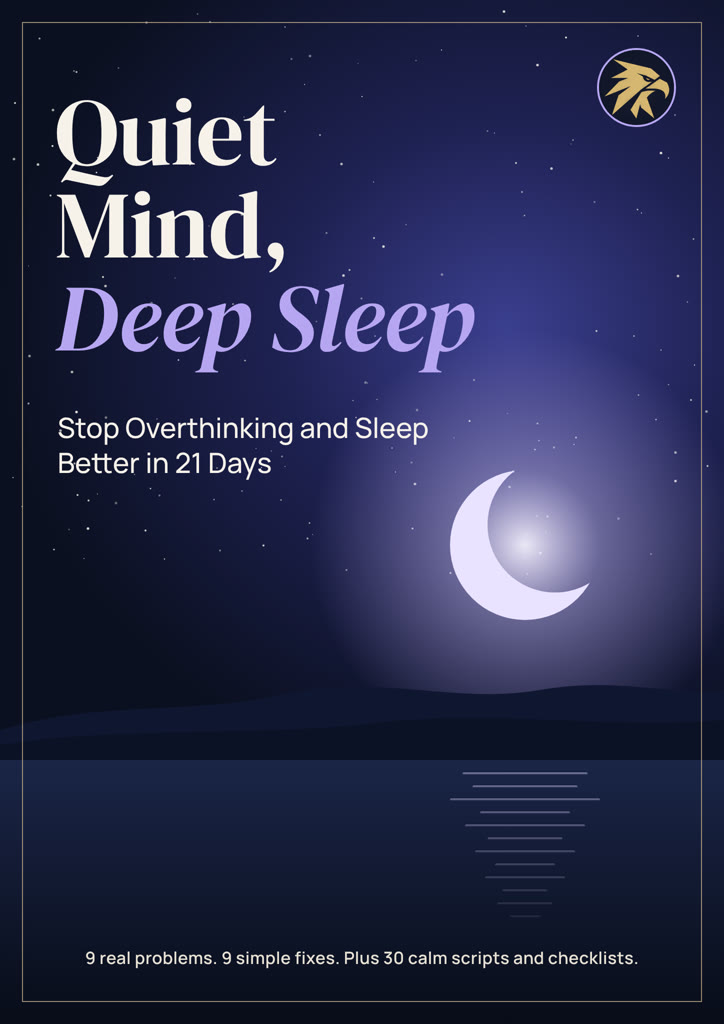
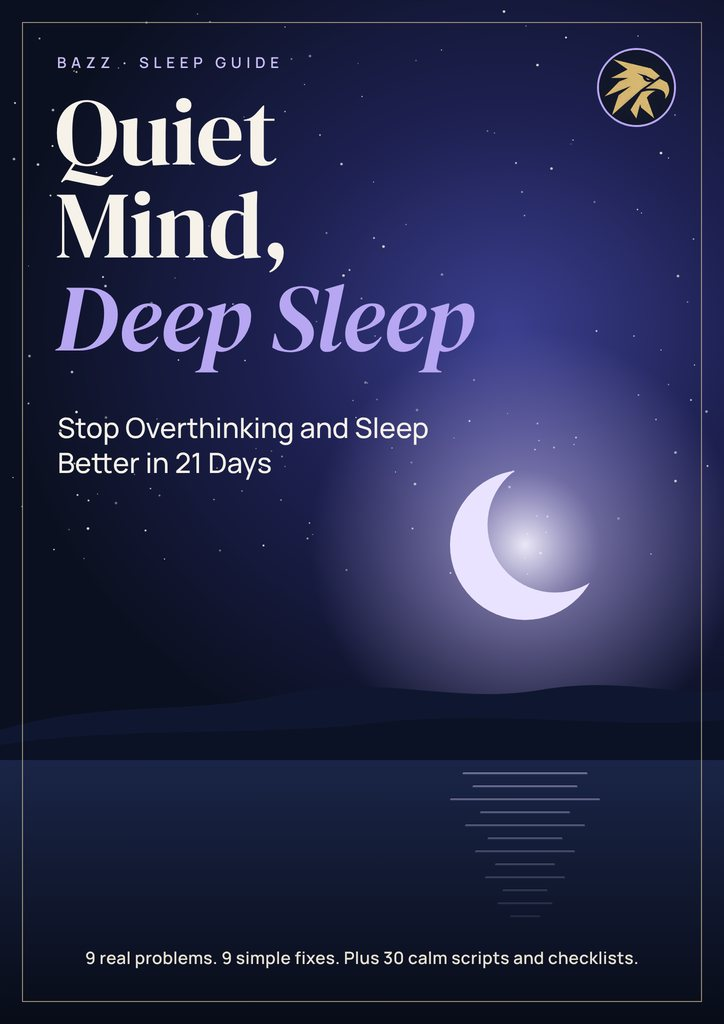
Covers: BAZZ guide label on every book

Changed region(s): [[0.8508, 0.0625, 0.9116, 0.125]]

diff --git a/index.html b/index.html
@@ -100,23 +100,23 @@
     <div class="books3d" id="books3d" aria-hidden="true"></div>
     <div class="wall">
       <a aria-label="AI for Beginners, $99.99" class="bk niche" href="product.html" style="--c:#14B8C9">
-        <span class="nic"><span class="lamp" aria-hidden="true"></span><span class="wash" aria-hidden="true"></span><img src="assets/cover.jpg" alt="AI for Beginners cover" loading="lazy" width="724" height="1024"><span class="glint" aria-hidden="true"></span><img class="refl" src="assets/cover.jpg" alt="" aria-hidden="true" loading="lazy" width="724" height="1024"></span>
+        <span class="nic"><span class="lamp" aria-hidden="true"></span><span class="wash" aria-hidden="true"></span><img src="assets/cover.jpg?v=3" alt="AI for Beginners cover" loading="lazy" width="724" height="1024"><span class="glint" aria-hidden="true"></span><img class="refl" src="assets/cover.jpg?v=3" alt="" aria-hidden="true" loading="lazy" width="724" height="1024"></span>
         <span class="nic-info"><span class="bk-tag">AI</span><b>AI for Beginners</b><span>Save hours every week with ChatGPT and Claude.</span><em>$99.99 &rarr;</em></span>
       </a>
       <a aria-label="Paycheck to Peace, $99.99" class="bk niche" href="money.html" style="--c:#D9A38B">
-        <span class="nic"><span class="lamp" aria-hidden="true"></span><span class="wash" aria-hidden="true"></span><img src="assets/cover-money.jpg" alt="Paycheck to Peace cover" loading="lazy" width="724" height="1024"><span class="glint" aria-hidden="true"></span><img class="refl" src="assets/cover-money.jpg" alt="" aria-hidden="true" loading="lazy" width="724" height="1024"></span>
+        <span class="nic"><span class="lamp" aria-hidden="true"></span><span class="wash" aria-hidden="true"></span><img src="assets/cover-money.jpg?v=3" alt="Paycheck to Peace cover" loading="lazy" width="724" height="1024"><span class="glint" aria-hidden="true"></span><img class="refl" src="assets/cover-money.jpg?v=3" alt="" aria-hidden="true" loading="lazy" width="724" height="1024"></span>
         <span class="nic-info"><span class="bk-tag">Money</span><b>Paycheck to Peace</b><span>Stop living paycheck to paycheck in 90 days.</span><em>$99.99 &rarr;</em></span>
       </a>
       <a aria-label="Quiet Mind, Deep Sleep, $99.99" class="bk niche" href="calm.html" style="--c:#B7A6F2">
-        <span class="nic"><span class="lamp" aria-hidden="true"></span><span class="wash" aria-hidden="true"></span><img src="assets/cover-calm.jpg" alt="Quiet Mind, Deep Sleep cover" loading="lazy" width="724" height="1024"><span class="glint" aria-hidden="true"></span><img class="refl" src="assets/cover-calm.jpg" alt="" aria-hidden="true" loading="lazy" width="724" height="1024"></span>
+        <span class="nic"><span class="lamp" aria-hidden="true"></span><span class="wash" aria-hidden="true"></span><img src="assets/cover-calm.jpg?v=3" alt="Quiet Mind, Deep Sleep cover" loading="lazy" width="724" height="1024"><span class="glint" aria-hidden="true"></span><img class="refl" src="assets/cover-calm.jpg?v=3" alt="" aria-hidden="true" loading="lazy" width="724" height="1024"></span>
         <span class="nic-info"><span class="bk-tag">Sleep &amp; calm</span><b>Quiet Mind, Deep Sleep</b><span>Stop overthinking and sleep better in 21 days.</span><em>$99.99 &rarr;</em></span>
       </a>
       <a aria-label="Hired in 30 Days, $99.99" class="bk niche" href="career.html" style="--c:#C8A24A">
-        <span class="nic"><span class="lamp" aria-hidden="true"></span><span class="wash" aria-hidden="true"></span><img src="assets/cover-career.jpg" alt="Hired in 30 Days cover" loading="lazy" width="724" height="1024"><span class="glint" aria-hidden="true"></span><img class="refl" src="assets/cover-career.jpg" alt="" aria-hidden="true" loading="lazy" width="724" height="1024"></span>
+        <span class="nic"><span class="lamp" aria-hidden="true"></span><span class="wash" aria-hidden="true"></span><img src="assets/cover-career.jpg?v=3" alt="Hired in 30 Days cover" loading="lazy" width="724" height="1024"><span class="glint" aria-hidden="true"></span><img class="refl" src="assets/cover-career.jpg?v=3" alt="" aria-hidden="true" loading="lazy" width="724" height="1024"></span>
         <span class="nic-info"><span class="bk-tag">Career</span><b>Hired in 30 Days</b><span>Land a better job without applying everywhere.</span><em>$99.99 &rarr;</em></span>
       </a>
       <a aria-label="The 20-Minute Home Workout, $99.99" class="bk niche" href="fitness.html" style="--c:#FF6A2B">
-        <span class="nic"><span class="lamp" aria-hidden="true"></span><span class="wash" aria-hidden="true"></span><img src="assets/cover-fit.jpg" alt="The 20-Minute Home Workout cover" loading="lazy" width="724" height="1024"><span class="glint" aria-hidden="true"></span><img class="refl" src="assets/cover-fit.jpg" alt="" aria-hidden="true" loading="lazy" width="724" height="1024"></span>
+        <span class="nic"><span class="lamp" aria-hidden="true"></span><span class="wash" aria-hidden="true"></span><img src="assets/cover-fit.jpg?v=3" alt="The 20-Minute Home Workout cover" loading="lazy" width="724" height="1024"><span class="glint" aria-hidden="true"></span><img class="refl" src="assets/cover-fit.jpg?v=3" alt="" aria-hidden="true" loading="lazy" width="724" height="1024"></span>
         <span class="nic-info"><span class="bk-tag">Fitness</span><b>The 20-Minute Home Workout</b><span>Get fit at home without a gym.</span><em>$99.99 &rarr;</em></span>
       </a>
       <a aria-label="The Hair Rescue, $99.99" class="bk niche" href="hair.html" style="--c:#D9A441">
@@ -181,14 +181,14 @@
 <script type="module">
   import { mountLogo } from './assets/logo3d.js';
   mountLogo(document.getElementById('medal'));
-  import('./assets/books3d.js?v=5').then(({ mountBooks }) => {
+  import('./assets/books3d.js?v=6').then(({ mountBooks }) => {
     const sec = document.getElementById('books');
     const ok = mountBooks(document.getElementById('books3d'), [
-      { cover: 'assets/cover.jpg', title: 'AI for Beginners', color: '#0F1B2D', ink: '#14B8C9', url: 'product.html' },
-      { cover: 'assets/cover-money.jpg', title: 'Paycheck to Peace', color: '#6B1E3A', ink: '#E8B9A2', url: 'money.html' },
-      { cover: 'assets/cover-calm.jpg', title: 'Quiet Mind, Deep Sleep', color: '#1E2152', ink: '#B7A6F2', url: 'calm.html' },
-      { cover: 'assets/cover-career.jpg', title: 'Hired in 30 Days', color: '#12372A', ink: '#C8A24A', url: 'career.html' },
-      { cover: 'assets/cover-fit.jpg', title: '20-Minute Home Workout', color: '#1E1E20', ink: '#FF6A2B', url: 'fitness.html' },
+      { cover: 'assets/cover.jpg?v=3', title: 'AI for Beginners', color: '#0F1B2D', ink: '#14B8C9', url: 'product.html' },
+      { cover: 'assets/cover-money.jpg?v=3', title: 'Paycheck to Peace', color: '#6B1E3A', ink: '#E8B9A2', url: 'money.html' },
+      { cover: 'assets/cover-calm.jpg?v=3', title: 'Quiet Mind, Deep Sleep', color: '#1E2152', ink: '#B7A6F2', url: 'calm.html' },
+      { cover: 'assets/cover-career.jpg?v=3', title: 'Hired in 30 Days', color: '#12372A', ink: '#C8A24A', url: 'career.html' },
+      { cover: 'assets/cover-fit.jpg?v=3', title: '20-Minute Home Workout', color: '#1E1E20', ink: '#FF6A2B', url: 'fitness.html' },
       { cover: 'assets/cover-hair.jpg?v=2', title: 'The Hair Rescue', color: '#3A2418', ink: '#E7B95A', url: 'hair.html' },
       { cover: 'assets/cover-face.jpg?v=2', title: 'The Skin Reset', color: '#1F4F4A', ink: '#F6BBA2', url: 'face.html' },
     ], url => (window.bazzGo || (u => location.href = u))(url));

diff --git a/fitness.html b/fitness.html
@@ -11,9 +11,9 @@
 <meta property="og:url" content="https://bazzcoffee336-web.github.io/BAZZ-Coffee/fitness.html">
 <meta property="og:title" content="The 20-Minute Home Workout | Get Fit Without a Gym">
 <meta property="og:description" content="The 20-Minute Home Workout ebook: 9 real fitness problems, 9 simple fixes, plus 30 workout cards and checklists.">
-<meta property="og:image" content="https://bazzcoffee336-web.github.io/BAZZ-Coffee/assets/cover-fit.jpg">
+<meta property="og:image" content="https://bazzcoffee336-web.github.io/BAZZ-Coffee/assets/cover-fit.jpg?v=3">
 <meta name="twitter:card" content="summary_large_image">
-<script type="application/ld+json">{"@context": "https://schema.org", "@type": "Book", "name": "The 20-Minute Home Workout", "bookFormat": "https://schema.org/EBook", "inLanguage": "en", "image": "https://bazzcoffee336-web.github.io/BAZZ-Coffee/assets/cover-fit.jpg", "description": "The 20-Minute Home Workout ebook: 9 real fitness problems, 9 simple fixes, plus 30 workout cards and checklists.", "brand": {"@type": "Brand", "name": "BAZZ"}, "publisher": {"@type": "Organization", "name": "BAZZ"}, "offers": {"@type": "Offer", "price": "99.99", "priceCurrency": "USD", "availability": "https://schema.org/PreOrder", "url": "https://bazzcoffee336-web.github.io/BAZZ-Coffee/fitness.html"}}</script>
+<script type="application/ld+json">{"@context": "https://schema.org", "@type": "Book", "name": "The 20-Minute Home Workout", "bookFormat": "https://schema.org/EBook", "inLanguage": "en", "image": "https://bazzcoffee336-web.github.io/BAZZ-Coffee/assets/cover-fit.jpg?v=3", "description": "The 20-Minute Home Workout ebook: 9 real fitness problems, 9 simple fixes, plus 30 workout cards and checklists.", "brand": {"@type": "Brand", "name": "BAZZ"}, "publisher": {"@type": "Organization", "name": "BAZZ"}, "offers": {"@type": "Offer", "price": "99.99", "priceCurrency": "USD", "availability": "https://schema.org/PreOrder", "url": "https://bazzcoffee336-web.github.io/BAZZ-Coffee/fitness.html"}}</script>
 <link rel="icon" type="image/png" sizes="32x32" href="assets/medal-32.png?v=3"><link rel="icon" type="image/png" sizes="64x64" href="assets/medal-64.png?v=3"><link rel="apple-touch-icon" href="assets/medal-180.png?v=3">
 <link rel="preconnect" href="https://fonts.googleapis.com"><link rel="preconnect" href="https://fonts.gstatic.com" crossorigin>
 <link href="https://fonts.googleapis.com/css2?family=DM+Serif+Display:ital@0;1&family=JetBrains+Mono&family=Manrope:wght@400;600;700&display=swap" rel="stylesheet">
@@ -34,7 +34,7 @@
 <main id="main">
   <header class="hero">
     <div class="stage3d" id="stage" aria-label="3D ebook." role="button">
-      <div class="fallback"><img src="assets/cover-fit.jpg" alt="The 20-Minute Home Workout ebook cover"></div>
+      <div class="fallback"><img src="assets/cover-fit.jpg?v=3" alt="The 20-Minute Home Workout ebook cover"></div>
     </div>
     <div>
       <p class="kick">Ebook &middot; PDF</p>
@@ -146,7 +146,7 @@
 
 <script type="module">
   import { mountBook } from './assets/book3d.js';
-  mountBook(document.getElementById('stage'), { color: '#FF6A2B', bg: '#1E1E20', cover: 'assets/cover-fit.jpg', title: 'The 20-Minute Home Workout', back1: 'Get fit without a gym', back2: '20 minutes at a time' });
+  mountBook(document.getElementById('stage'), { color: '#FF6A2B', bg: '#1E1E20', cover: 'assets/cover-fit.jpg?v=3', title: 'The 20-Minute Home Workout', back1: 'Get fit without a gym', back2: '20 minutes at a time' });
 </script>
 <script src="assets/site.js?v=494499"></script>
 </body>

diff --git a/calm.html b/calm.html
@@ -11,9 +11,9 @@
 <meta property="og:url" content="https://bazzcoffee336-web.github.io/BAZZ-Coffee/calm.html">
 <meta property="og:title" content="Quiet Mind, Deep Sleep | Stop Overthinking and Sleep Better">
 <meta property="og:description" content="Quiet Mind, Deep Sleep ebook: 9 real problems, 9 simple fixes, plus 30 calm scripts and checklists.">
-<meta property="og:image" content="https://bazzcoffee336-web.github.io/BAZZ-Coffee/assets/cover-calm.jpg">
+<meta property="og:image" content="https://bazzcoffee336-web.github.io/BAZZ-Coffee/assets/cover-calm.jpg?v=3">
 <meta name="twitter:card" content="summary_large_image">
-<script type="application/ld+json">{"@context": "https://schema.org", "@type": "Book", "name": "Quiet Mind, Deep Sleep", "bookFormat": "https://schema.org/EBook", "inLanguage": "en", "image": "https://bazzcoffee336-web.github.io/BAZZ-Coffee/assets/cover-calm.jpg", "description": "Quiet Mind, Deep Sleep ebook: 9 real problems, 9 simple fixes, plus 30 calm scripts and checklists.", "brand": {"@type": "Brand", "name": "BAZZ"}, "publisher": {"@type": "Organization", "name": "BAZZ"}, "offers": {"@type": "Offer", "price": "99.99", "priceCurrency": "USD", "availability": "https://schema.org/PreOrder", "url": "https://bazzcoffee336-web.github.io/BAZZ-Coffee/calm.html"}}</script>
+<script type="application/ld+json">{"@context": "https://schema.org", "@type": "Book", "name": "Quiet Mind, Deep Sleep", "bookFormat": "https://schema.org/EBook", "inLanguage": "en", "image": "https://bazzcoffee336-web.github.io/BAZZ-Coffee/assets/cover-calm.jpg?v=3", "description": "Quiet Mind, Deep Sleep ebook: 9 real problems, 9 simple fixes, plus 30 calm scripts and checklists.", "brand": {"@type": "Brand", "name": "BAZZ"}, "publisher": {"@type": "Organization", "name": "BAZZ"}, "offers": {"@type": "Offer", "price": "99.99", "priceCurrency": "USD", "availability": "https://schema.org/PreOrder", "url": "https://bazzcoffee336-web.github.io/BAZZ-Coffee/calm.html"}}</script>
 <link rel="icon" type="image/png" sizes="32x32" href="assets/medal-32.png?v=3"><link rel="icon" type="image/png" sizes="64x64" href="assets/medal-64.png?v=3"><link rel="apple-touch-icon" href="assets/medal-180.png?v=3">
 <link rel="preconnect" href="https://fonts.googleapis.com"><link rel="preconnect" href="https://fonts.gstatic.com" crossorigin>
 <link href="https://fonts.googleapis.com/css2?family=DM+Serif+Display:ital@0;1&family=JetBrains+Mono&family=Manrope:wght@400;600;700&display=swap" rel="stylesheet">
@@ -34,7 +34,7 @@
 <main id="main">
   <header class="hero">
     <div class="stage3d" id="stage" aria-label="3D ebook." role="button">
-      <div class="fallback"><img src="assets/cover-calm.jpg" alt="Quiet Mind, Deep Sleep ebook cover"></div>
+      <div class="fallback"><img src="assets/cover-calm.jpg?v=3" alt="Quiet Mind, Deep Sleep ebook cover"></div>
     </div>
     <div>
       <p class="kick">Ebook &middot; PDF</p>
@@ -146,7 +146,7 @@
 
 <script type="module">
   import { mountBook } from './assets/book3d.js';
-  mountBook(document.getElementById('stage'), { color: '#B7A6F2', bg: '#1E2152', cover: 'assets/cover-calm.jpg', title: 'Quiet Mind, Deep Sleep', back1: 'Stop overthinking', back2: 'Sleep better in 21 days' });
+  mountBook(document.getElementById('stage'), { color: '#B7A6F2', bg: '#1E2152', cover: 'assets/cover-calm.jpg?v=3', title: 'Quiet Mind, Deep Sleep', back1: 'Stop overthinking', back2: 'Sleep better in 21 days' });
 </script>
 <script src="assets/site.js?v=494499"></script>
 </body>

diff --git a/career.html b/career.html
@@ -11,9 +11,9 @@
 <meta property="og:url" content="https://bazzcoffee336-web.github.io/BAZZ-Coffee/career.html">
 <meta property="og:title" content="Hired in 30 Days | Land a Better Job Without Applying Everywhere">
 <meta property="og:description" content="Hired in 30 Days ebook: 9 real job-search problems, 9 simple fixes, plus 30 scripts and templates.">
-<meta property="og:image" content="https://bazzcoffee336-web.github.io/BAZZ-Coffee/assets/cover-career.jpg">
+<meta property="og:image" content="https://bazzcoffee336-web.github.io/BAZZ-Coffee/assets/cover-career.jpg?v=3">
 <meta name="twitter:card" content="summary_large_image">
-<script type="application/ld+json">{"@context": "https://schema.org", "@type": "Book", "name": "Hired in 30 Days", "bookFormat": "https://schema.org/EBook", "inLanguage": "en", "image": "https://bazzcoffee336-web.github.io/BAZZ-Coffee/assets/cover-career.jpg", "description": "Hired in 30 Days ebook: 9 real job-search problems, 9 simple fixes, plus 30 scripts and templates.", "brand": {"@type": "Brand", "name": "BAZZ"}, "publisher": {"@type": "Organization", "name": "BAZZ"}, "offers": {"@type": "Offer", "price": "99.99", "priceCurrency": "USD", "availability": "https://schema.org/PreOrder", "url": "https://bazzcoffee336-web.github.io/BAZZ-Coffee/career.html"}}</script>
+<script type="application/ld+json">{"@context": "https://schema.org", "@type": "Book", "name": "Hired in 30 Days", "bookFormat": "https://schema.org/EBook", "inLanguage": "en", "image": "https://bazzcoffee336-web.github.io/BAZZ-Coffee/assets/cover-career.jpg?v=3", "description": "Hired in 30 Days ebook: 9 real job-search problems, 9 simple fixes, plus 30 scripts and templates.", "brand": {"@type": "Brand", "name": "BAZZ"}, "publisher": {"@type": "Organization", "name": "BAZZ"}, "offers": {"@type": "Offer", "price": "99.99", "priceCurrency": "USD", "availability": "https://schema.org/PreOrder", "url": "https://bazzcoffee336-web.github.io/BAZZ-Coffee/career.html"}}</script>
 <link rel="icon" type="image/png" sizes="32x32" href="assets/medal-32.png?v=3"><link rel="icon" type="image/png" sizes="64x64" href="assets/medal-64.png?v=3"><link rel="apple-touch-icon" href="assets/medal-180.png?v=3">
 <link rel="preconnect" href="https://fonts.googleapis.com"><link rel="preconnect" href="https://fonts.gstatic.com" crossorigin>
 <link href="https://fonts.googleapis.com/css2?family=DM+Serif+Display:ital@0;1&family=JetBrains+Mono&family=Manrope:wght@400;600;700&display=swap" rel="stylesheet">
@@ -34,7 +34,7 @@
 <main id="main">
   <header class="hero">
     <div class="stage3d" id="stage" aria-label="3D ebook." role="button">
-      <div class="fallback"><img src="assets/cover-career.jpg" alt="Hired in 30 Days ebook cover"></div>
+      <div class="fallback"><img src="assets/cover-career.jpg?v=3" alt="Hired in 30 Days ebook cover"></div>
     </div>
     <div>
       <p class="kick">Ebook &middot; PDF</p>
@@ -146,7 +146,7 @@
 
 <script type="module">
   import { mountBook } from './assets/book3d.js';
-  mountBook(document.getElementById('stage'), { color: '#C8A24A', bg: '#12372A', cover: 'assets/cover-career.jpg', title: 'Hired in 30 Days', back1: 'Land a better job', back2: 'without applying everywhere' });
+  mountBook(document.getElementById('stage'), { color: '#C8A24A', bg: '#12372A', cover: 'assets/cover-career.jpg?v=3', title: 'Hired in 30 Days', back1: 'Land a better job', back2: 'without applying everywhere' });
 </script>
 <script src="assets/site.js?v=494499"></script>
 </body>

diff --git a/money.html b/money.html
@@ -11,9 +11,9 @@
 <meta property="og:url" content="https://bazzcoffee336-web.github.io/BAZZ-Coffee/money.html">
 <meta property="og:title" content="Paycheck to Peace | Stop Living Paycheck to Paycheck">
 <meta property="og:description" content="Paycheck to Peace ebook: 9 money problems, 9 simple fixes, plus 30 scripts and checklists.">
-<meta property="og:image" content="https://bazzcoffee336-web.github.io/BAZZ-Coffee/assets/cover-money.jpg">
+<meta property="og:image" content="https://bazzcoffee336-web.github.io/BAZZ-Coffee/assets/cover-money.jpg?v=3">
 <meta name="twitter:card" content="summary_large_image">
-<script type="application/ld+json">{"@context": "https://schema.org", "@type": "Book", "name": "Paycheck to Peace", "bookFormat": "https://schema.org/EBook", "inLanguage": "en", "image": "https://bazzcoffee336-web.github.io/BAZZ-Coffee/assets/cover-money.jpg", "description": "Paycheck to Peace ebook: 9 money problems, 9 simple fixes, plus 30 scripts and checklists.", "brand": {"@type": "Brand", "name": "BAZZ"}, "publisher": {"@type": "Organization", "name": "BAZZ"}, "offers": {"@type": "Offer", "price": "99.99", "priceCurrency": "USD", "availability": "https://schema.org/PreOrder", "url": "https://bazzcoffee336-web.github.io/BAZZ-Coffee/money.html"}}</script>
+<script type="application/ld+json">{"@context": "https://schema.org", "@type": "Book", "name": "Paycheck to Peace", "bookFormat": "https://schema.org/EBook", "inLanguage": "en", "image": "https://bazzcoffee336-web.github.io/BAZZ-Coffee/assets/cover-money.jpg?v=3", "description": "Paycheck to Peace ebook: 9 money problems, 9 simple fixes, plus 30 scripts and checklists.", "brand": {"@type": "Brand", "name": "BAZZ"}, "publisher": {"@type": "Organization", "name": "BAZZ"}, "offers": {"@type": "Offer", "price": "99.99", "priceCurrency": "USD", "availability": "https://schema.org/PreOrder", "url": "https://bazzcoffee336-web.github.io/BAZZ-Coffee/money.html"}}</script>
 <link rel="icon" type="image/png" sizes="32x32" href="assets/medal-32.png?v=3"><link rel="icon" type="image/png" sizes="64x64" href="assets/medal-64.png?v=3"><link rel="apple-touch-icon" href="assets/medal-180.png?v=3">
 <link rel="preconnect" href="https://fonts.googleapis.com"><link rel="preconnect" href="https://fonts.gstatic.com" crossorigin>
 <link href="https://fonts.googleapis.com/css2?family=DM+Serif+Display:ital@0;1&family=JetBrains+Mono&family=Manrope:wght@400;600;700&display=swap" rel="stylesheet">
@@ -34,7 +34,7 @@
 <main id="main">
   <header class="hero">
     <div class="stage3d" id="stage" aria-label="3D ebook." role="button">
-      <div class="fallback"><img src="assets/cover-money.jpg" alt="Paycheck to Peace ebook cover"></div>
+      <div class="fallback"><img src="assets/cover-money.jpg?v=3" alt="Paycheck to Peace ebook cover"></div>
     </div>
     <div>
       <p class="kick">Ebook &middot; PDF</p>
@@ -146,7 +146,7 @@
 
 <script type="module">
   import { mountBook } from './assets/book3d.js';
-  mountBook(document.getElementById('stage'), { color: '#D9A38B', bg: '#6B1E3A', cover: 'assets/cover-money.jpg', title: 'Paycheck to Peace', back1: 'Stop living paycheck', back2: 'to paycheck in 90 days' });
+  mountBook(document.getElementById('stage'), { color: '#D9A38B', bg: '#6B1E3A', cover: 'assets/cover-money.jpg?v=3', title: 'Paycheck to Peace', back1: 'Stop living paycheck', back2: 'to paycheck in 90 days' });
 </script>
 <script src="assets/site.js?v=494499"></script>
 </body>

diff --git a/product.html b/product.html
@@ -11,9 +11,9 @@
 <meta property="og:url" content="https://bazzcoffee336-web.github.io/BAZZ-Coffee/product.html">
 <meta property="og:title" content="AI for Beginners | Save Hours Every Week with ChatGPT and Claude">
 <meta property="og:description" content="AI for Beginners ebook: 9 chapters, 100 copy-paste prompts. Instant PDF download.">
-<meta property="og:image" content="https://bazzcoffee336-web.github.io/BAZZ-Coffee/assets/cover.jpg">
+<meta property="og:image" content="https://bazzcoffee336-web.github.io/BAZZ-Coffee/assets/cover.jpg?v=3">
 <meta name="twitter:card" content="summary_large_image">
-<script type="application/ld+json">{"@context": "https://schema.org", "@type": "Book", "name": "AI for Beginners", "bookFormat": "https://schema.org/EBook", "inLanguage": "en", "image": "https://bazzcoffee336-web.github.io/BAZZ-Coffee/assets/cover.jpg", "description": "AI for Beginners ebook: 9 chapters, 100 copy-paste prompts. Instant PDF download.", "brand": {"@type": "Brand", "name": "BAZZ"}, "publisher": {"@type": "Organization", "name": "BAZZ"}, "offers": {"@type": "Offer", "price": "99.99", "priceCurrency": "USD", "availability": "https://schema.org/PreOrder", "url": "https://bazzcoffee336-web.github.io/BAZZ-Coffee/product.html"}}</script>
+<script type="application/ld+json">{"@context": "https://schema.org", "@type": "Book", "name": "AI for Beginners", "bookFormat": "https://schema.org/EBook", "inLanguage": "en", "image": "https://bazzcoffee336-web.github.io/BAZZ-Coffee/assets/cover.jpg?v=3", "description": "AI for Beginners ebook: 9 chapters, 100 copy-paste prompts. Instant PDF download.", "brand": {"@type": "Brand", "name": "BAZZ"}, "publisher": {"@type": "Organization", "name": "BAZZ"}, "offers": {"@type": "Offer", "price": "99.99", "priceCurrency": "USD", "availability": "https://schema.org/PreOrder", "url": "https://bazzcoffee336-web.github.io/BAZZ-Coffee/product.html"}}</script>
 <link rel="icon" type="image/png" sizes="32x32" href="assets/medal-32.png?v=3"><link rel="icon" type="image/png" sizes="64x64" href="assets/medal-64.png?v=3"><link rel="apple-touch-icon" href="assets/medal-180.png?v=3">
 <link rel="preconnect" href="https://fonts.googleapis.com"><link rel="preconnect" href="https://fonts.gstatic.com" crossorigin>
 <link href="https://fonts.googleapis.com/css2?family=DM+Serif+Display:ital@0;1&family=JetBrains+Mono&family=Manrope:wght@400;600;700&display=swap" rel="stylesheet">
@@ -34,7 +34,7 @@
 <main id="main">
   <header class="hero">
     <div class="stage3d" id="stage" aria-label="3D ebook." role="button">
-      <div class="fallback"><img src="assets/cover.jpg" alt="AI for Beginners ebook cover"></div>
+      <div class="fallback"><img src="assets/cover.jpg?v=3" alt="AI for Beginners ebook cover"></div>
     </div>
     <div>
       <p class="kick">Ebook &middot; PDF</p>
